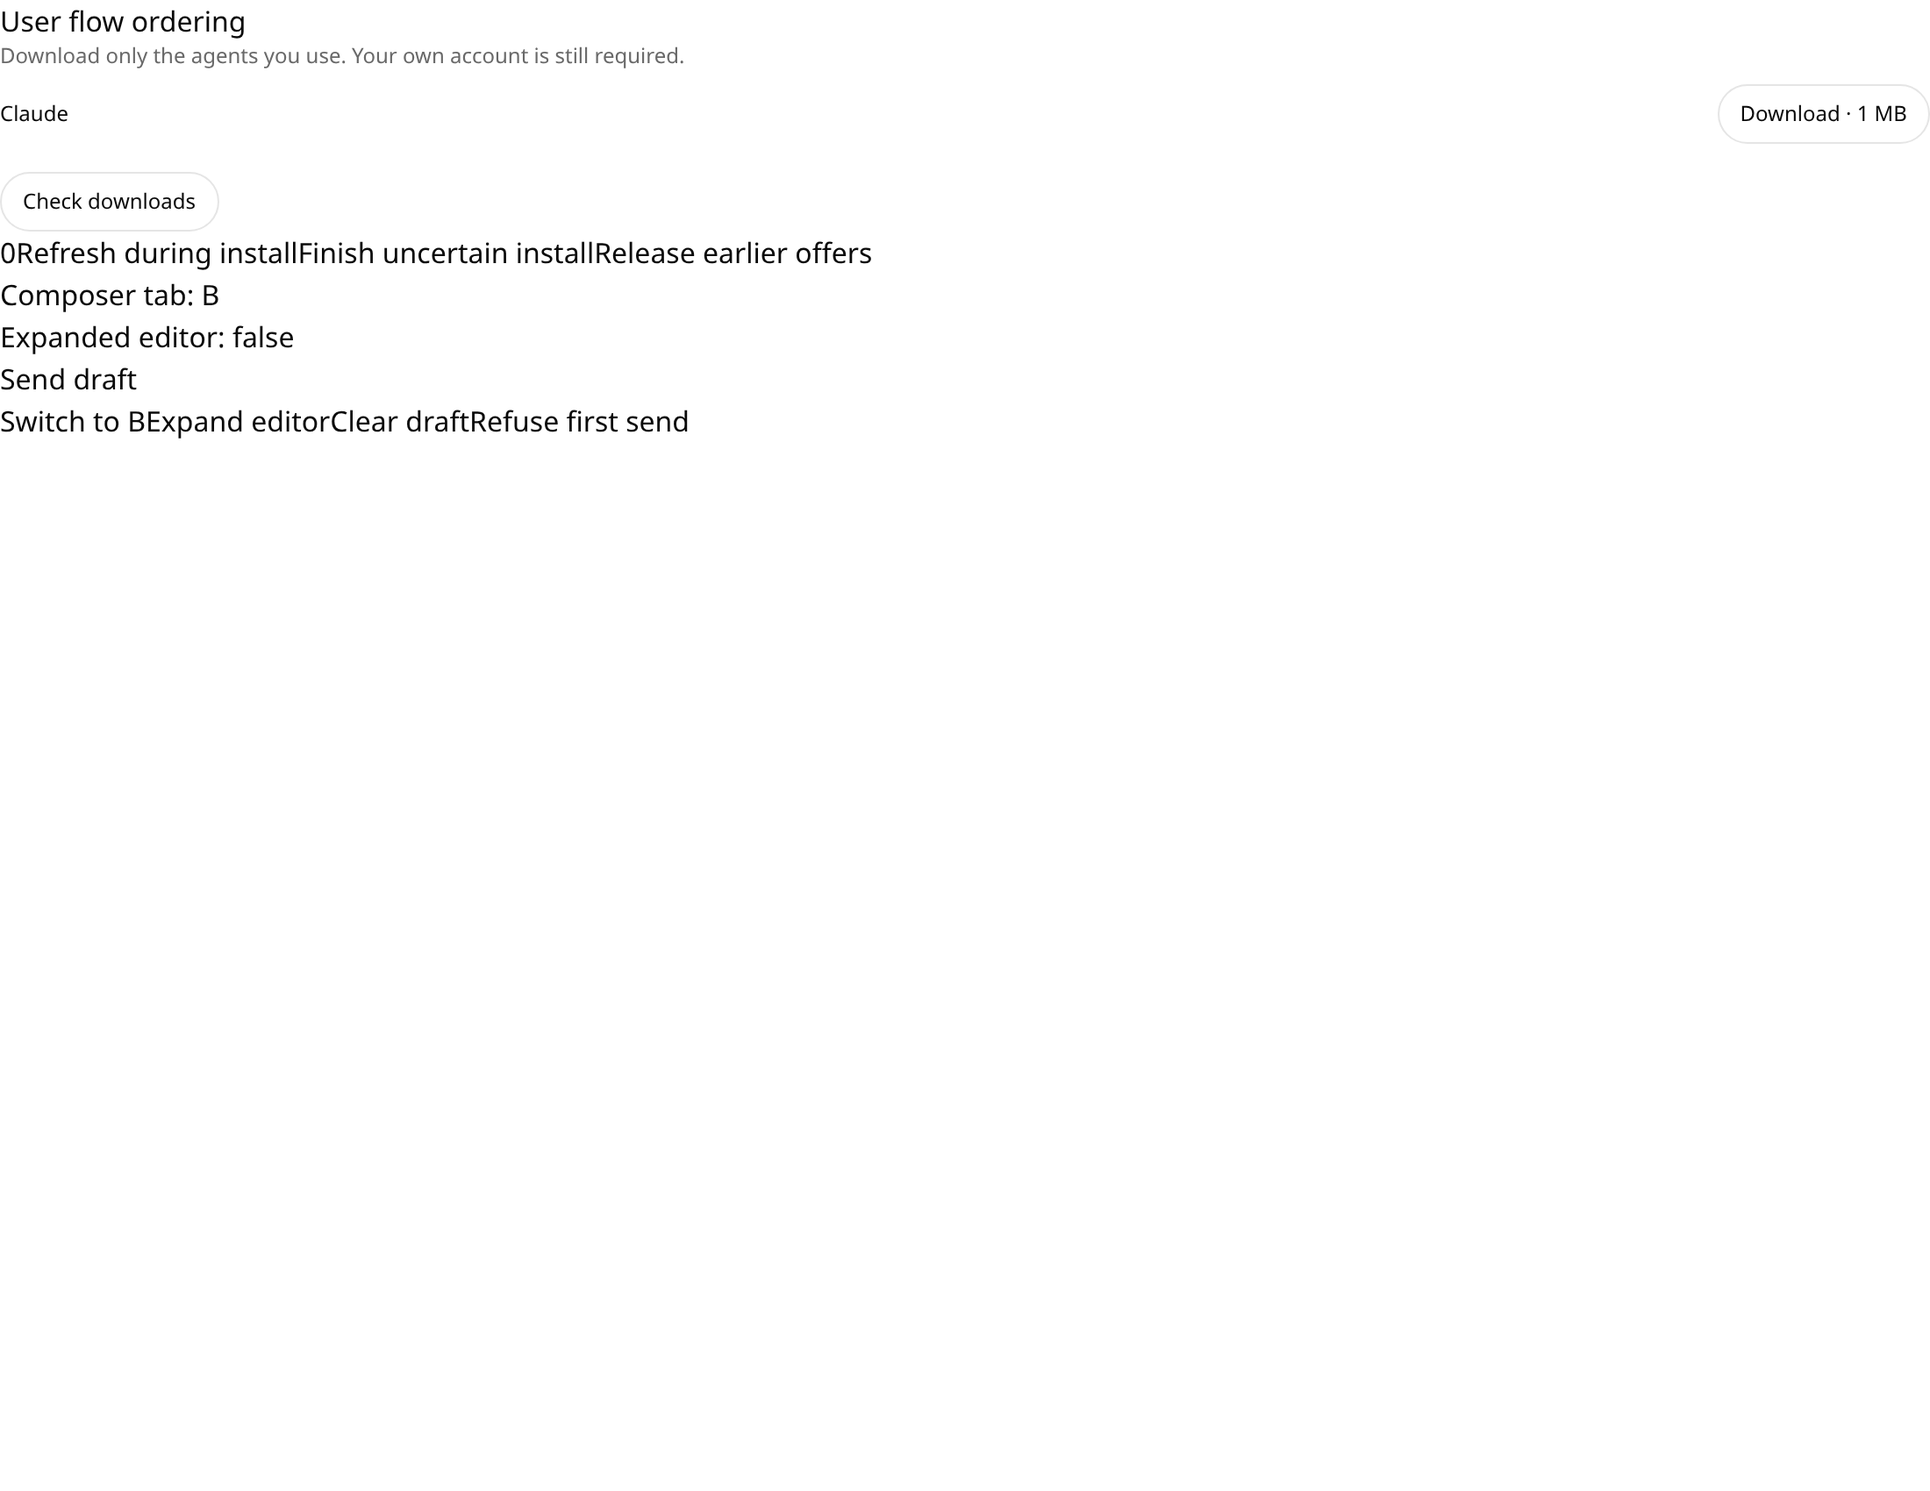
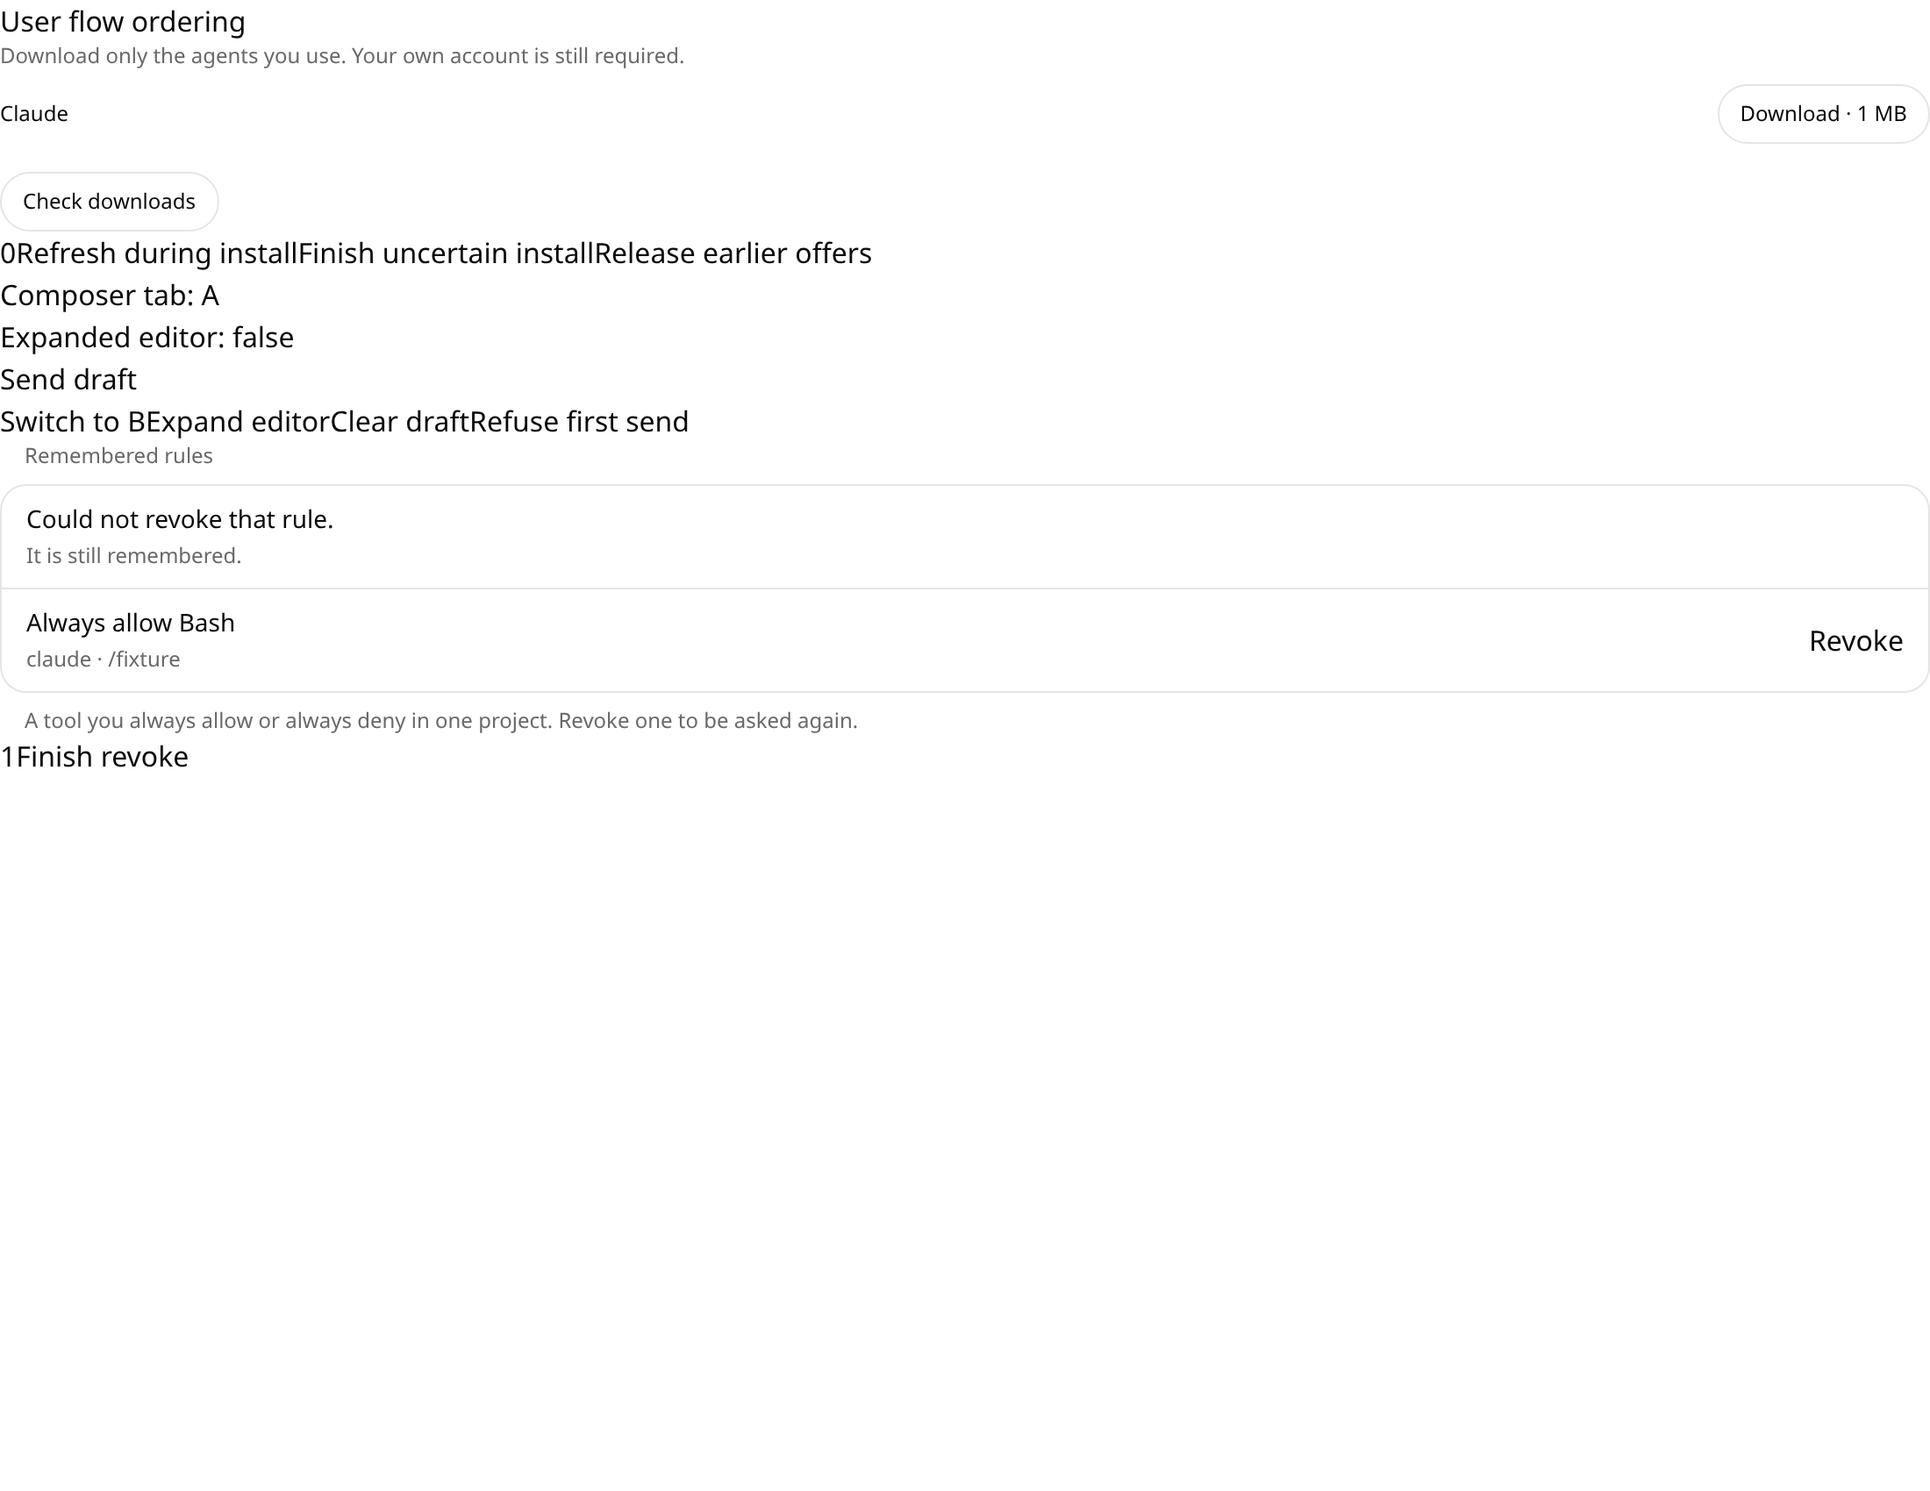
fix: retain permission-rule revoke ownership through refresh (#1087)

diff --git a/src/desktop/settings/ui/permission-rule-rows.test.tsx b/src/desktop/settings/ui/permission-rule-rows.test.tsx
@@ -5,7 +5,7 @@
  */
 import { act } from "react"
 import { createRoot, type Root } from "react-dom/client"
-import { afterEach, beforeEach, expect, it } from "vitest"
+import { afterEach, beforeEach, expect, it, vi } from "vitest"
 import type { PermissionRule } from "@nessa/client"
 import type { PermissionRulesGateway } from "../adapters/permission-rules-gateway"
 import { PermissionRuleRows, PermissionRulesProvider } from "./permission-rule-rows"
@@ -23,6 +23,7 @@ beforeEach(() => {
 afterEach(async () => {
   await act(async () => root.unmount())
   host.remove()
+  vi.restoreAllMocks()
 })
 
 const rule: PermissionRule = {
@@ -119,3 +120,128 @@ async function show(gateway: PermissionRulesGateway) {
     ),
   )
 }
+
+function deferred<T>() {
+  let resolve!: (value: T) => void
+  const promise = new Promise<T>((done) => {
+    resolve = done
+  })
+  return { promise, resolve }
+}
+function revokeButton() {
+  const button = host.querySelector<HTMLButtonElement>("button")
+  if (!button) throw new Error("Missing Revoke button")
+  return button
+}
+
+it.each(["focus", "visibilitychange"])(
+  "retains revoke ownership through a %s refresh",
+  async (event) => {
+    vi.spyOn(document, "visibilityState", "get").mockReturnValue("visible")
+    const pending = deferred<Awaited<ReturnType<PermissionRulesGateway["revoke"]>>>()
+    let calls = 0,
+      reads = 0
+    const gateway: PermissionRulesGateway = {
+      read: async () => {
+        reads++
+        return { ok: true, rules: [rule] }
+      },
+      revoke: () => {
+        calls++
+        return pending.promise
+      },
+    }
+    await show(gateway)
+    await act(async () => revokeButton().click())
+    expect(revokeButton().disabled).toBe(true)
+    await act(async () => {
+      if (event === "focus") window.dispatchEvent(new Event(event))
+      else document.dispatchEvent(new Event(event))
+    })
+    expect(revokeButton().disabled).toBe(true)
+    expect(reads).toBe(1)
+    expect(calls).toBe(1)
+    await act(async () => pending.resolve({ ok: false }))
+    expect(reads).toBe(2)
+    expect(host.textContent).toContain("Could not revoke that rule.")
+    expect(revokeButton().disabled).toBe(false)
+  },
+)
+
+it("retains revoke ownership until its post-command read finishes", async () => {
+  const pending = deferred<Awaited<ReturnType<PermissionRulesGateway["read"]>>>()
+  let reads = 0
+  const gateway: PermissionRulesGateway = {
+    read: async () => (++reads === 1 ? { ok: true, rules: [rule] } : pending.promise),
+    revoke: async () => ({ ok: true, applied: true }),
+  }
+  await show(gateway)
+  await act(async () => revokeButton().click())
+  await act(async () => window.dispatchEvent(new Event("focus")))
+  expect(reads).toBe(2)
+  expect(revokeButton().disabled).toBe(true)
+  await act(async () => pending.resolve({ ok: true, rules: [] }))
+  expect(host.textContent).toContain("Rules you save from a review appear here.")
+})
+
+it("ignores a background read begun before a revoke", async () => {
+  const oldRead = deferred<Awaited<ReturnType<PermissionRulesGateway["read"]>>>()
+  const pending = deferred<Awaited<ReturnType<PermissionRulesGateway["revoke"]>>>()
+  let reads = 0
+  const gateway: PermissionRulesGateway = {
+    read: async () => (++reads === 2 ? oldRead.promise : { ok: true, rules: [rule] }),
+    revoke: () => pending.promise,
+  }
+  await show(gateway)
+  await act(async () => window.dispatchEvent(new Event("focus")))
+  await act(async () => revokeButton().click())
+  await act(async () => oldRead.resolve({ ok: true, rules: [rule] }))
+  expect(revokeButton().disabled).toBe(true)
+  await act(async () => pending.resolve({ ok: false }))
+  expect(host.textContent).toContain("Could not revoke that rule.")
+})
+
+it.each(["replace", "unmount"])(
+  "retires a revoke before an obsolete follow-up read on %s",
+  async (retirement) => {
+    const pending = deferred<Awaited<ReturnType<PermissionRulesGateway["revoke"]>>>()
+    let reads = 0
+    const gateway: PermissionRulesGateway = {
+      read: async () => {
+        reads++
+        return { ok: true, rules: [rule] }
+      },
+      revoke: () => pending.promise,
+    }
+    await show(gateway)
+    await act(async () => revokeButton().click())
+    if (retirement === "replace")
+      await show({
+        read: async () => ({ ok: true, rules: [] }),
+        revoke: async () => ({ ok: true, applied: true }),
+      })
+    else await act(async () => root.render(null))
+    await act(async () => pending.resolve({ ok: true, applied: true }))
+    expect(reads).toBe(1)
+    expect(host.textContent).not.toContain("Always allow Bash")
+  },
+)
+
+it("admits one revoke when two clicks precede the disabled render", async () => {
+  const pending = deferred<Awaited<ReturnType<PermissionRulesGateway["revoke"]>>>()
+  let calls = 0
+  await show({
+    read: async () => ({ ok: true, rules: [rule] }),
+    revoke: () => {
+      calls++
+      return pending.promise
+    },
+  })
+  const button = revokeButton()
+  await act(async () => {
+    button.click()
+    button.click()
+  })
+  expect(calls).toBe(1)
+  await act(async () => pending.resolve({ ok: false }))
+})

diff --git a/src/desktop/settings/ui/permission-rule-rows.tsx b/src/desktop/settings/ui/permission-rule-rows.tsx
@@ -53,17 +53,23 @@ type Phase =
       readonly retained?: boolean
     }
 
+type Request = { readonly kind: "read" } | { readonly kind: "revoke" }
+
 export function PermissionRuleRows() {
   const gateway = useContext(PermissionRulesContext)
   const [phase, setPhase] = useState<Phase>({ kind: "absent" })
-  const latest = useRef(0)
+  const latest = useRef<Request>({ kind: "read" })
   useEffect(() => {
     if (!gateway) return
     let current = true
     const read = () => {
-      const generation = ++latest.current
+      // A revoke retains ownership through its own fresh read. Background
+      // refreshes defer to that read rather than replacing its pending state.
+      if (latest.current.kind === "revoke") return
+      const request: Request = { kind: "read" }
+      latest.current = request
       void gateway.read().then((outcome) => {
-        if (!current || generation !== latest.current) return
+        if (!current || request !== latest.current) return
         setPhase(
           outcome.ok ? { kind: "ready", rules: outcome.rules } : { kind: "unread" },
         )
@@ -79,17 +85,21 @@ export function PermissionRuleRows() {
     document.addEventListener("visibilitychange", onVisible)
     return () => {
       current = false
+      latest.current = { kind: "read" }
       window.removeEventListener("focus", onFocus)
       document.removeEventListener("visibilitychange", onVisible)
     }
   }, [gateway])
   const revoke = (ruleId: string) => {
-    if (!gateway || phase.kind !== "ready" || phase.revoking) return
-    const generation = ++latest.current
+    if (!gateway || phase.kind !== "ready" || latest.current.kind === "revoke") return
+    const request: Request = { kind: "revoke" }
+    latest.current = request
     setPhase({ kind: "ready", rules: phase.rules, revoking: ruleId })
     void gateway.revoke(ruleId, crypto.randomUUID()).then(async (outcome) => {
+      if (request !== latest.current) return
       const again = await gateway.read()
-      if (generation !== latest.current) return
+      if (request !== latest.current) return
+      latest.current = { kind: "read" }
       if (!outcome.ok) {
         const retained = again.ok
           ? again.rules.some((rule) => rule.id === ruleId)

diff --git a/src/panel/ui/use-composer.test.ts b/src/panel/ui/use-composer.test.ts
@@ -210,3 +210,49 @@ it("still reaches sendDraft, with the draft's own prose, when the editor is betw
     expect.objectContaining({ text: "typed before the remount" }),
   )
 })
+
+it("keeps B expanded after A submit and tab switch in the same task with the real store", async () => {
+  const { setDraft, setActive, openConversation } =
+    await import("../../conversation/testing")
+  const store = makeStore(
+    createDependencies({
+      conversation: { ...scenarioEffects("echo"), create: () => new Promise(() => {}) },
+    }),
+  )
+  store.dispatch(
+    sessionReady({ hello: {}, health: {} } as Parameters<typeof sessionReady>[0]),
+  )
+  store.dispatch(setDraft({ draft: [{ type: "text", text: "A" }] }))
+  const a = store.getState().conversation.activeId
+  store.dispatch(openConversation())
+  const b = store.getState().conversation.activeId
+  store.dispatch(setDraft({ draft: [{ type: "text", text: "B" }] }))
+  store.dispatch(setActive(a))
+  let hook!: ReturnType<typeof useComposer>
+  function PendingSurface() {
+    hook = useComposer(useConversation(), () => false, sent)
+    return null
+  }
+  await React.act(async () =>
+    root.render(
+      React.createElement(Provider, {
+        store,
+        children: React.createElement(PendingSurface),
+      }),
+    ),
+  )
+  // The qualified counterexample batches send and switch before the emptied
+  // A draft is observed. Separate human-click reachability is not established.
+  await React.act(async () => {
+    hook.submit({ preventDefault() {} } as React.FormEvent<HTMLFormElement>)
+    store.dispatch(setActive(b))
+  })
+  expect(
+    store
+      .getState()
+      .conversation.conversations.find((conversation) => conversation.id === a)?.draft,
+  ).toEqual([])
+  await React.act(async () => hook.changeExpanded(true, "control"))
+  await React.act(async () => hook.changeContent({ text: "", parts: [] }))
+  expect(hook.expanded).toBe(true)
+})

diff --git a/verification/conversation/user-flow-ordering.tsx b/verification/conversation/user-flow-ordering.tsx
@@ -7,6 +7,14 @@ import type {
   InstallationOffer,
   InstallationOutcome,
 } from "../../src/onboarding/application/agent-installations"
+import {
+  PermissionRulesProvider,
+  PermissionRuleRows,
+} from "../../src/desktop/settings/ui/permission-rule-rows"
+import type {
+  PermissionRulesGateway,
+  PermissionRulesRevoke,
+} from "../../src/desktop/settings/adapters/permission-rules-gateway"
 import { useComposer } from "../../src/panel/ui/use-composer"
 import type { useConversation } from "../../src/conversation"
 import "../../src/styles.css"
@@ -101,10 +109,46 @@ function Composer() {
     </section>
   )
 }
+const revoked = deferred<PermissionRulesRevoke>()
+function Permissions() {
+  const [requests, setRequests] = React.useState(0)
+  const gateway = React.useMemo<PermissionRulesGateway>(
+    () => ({
+      read: async () => ({
+        ok: true,
+        rules: [
+          {
+            id: "pr_fixture",
+            revision: "1",
+            workspace: "/fixture",
+            source: "claude",
+            tool: "Bash",
+            effect: "allow",
+          },
+        ],
+      }),
+      revoke: async () => {
+        setRequests((count) => count + 1)
+        return revoked.promise
+      },
+    }),
+    [],
+  )
+  return (
+    <section aria-label="Permission revoke ordering fixture">
+      <PermissionRulesProvider gateway={gateway}>
+        <PermissionRuleRows />
+      </PermissionRulesProvider>
+      <output aria-label="Revoke requests">{requests}</output>
+      <button onClick={() => revoked.resolve({ ok: false })}>Finish revoke</button>
+    </section>
+  )
+}
 createRoot(document.getElementById("root")!).render(
   <main data-user-flow-ordering>
     <h1>User flow ordering</h1>
     <Downloads />
     <Composer />
+    <Permissions />
   </main>,
 )

diff --git a/docs/design/user-flow-ordering.md b/docs/design/user-flow-ordering.md
@@ -69,3 +69,31 @@ conversation admission path; the new ordering fixture covers these frontend
 interleavings directly. Defaults and raised-count stress were not run here.
 See [evidence](../../verification/desktop/evidence/user-flow-ordering/README.md)
 for environment limits and reproducible commands.
+
+## Permission-rule revoke versus background reads
+
+The audit independently reproduced a focus read replacing a pending revoke's
+presentation and its generation. Revoke became enabled and another click
+issued a second request with a different request ID. Physical duplicate effects
+were not established.
+
+The row component's existing request owner must distinguish a read from a
+revoke, retaining identity through the revoke and its mandatory reread. Focus
+and visibility refreshes defer while that owner is a revoke; completion already
+performs the fresh read. The UI's disabled state is a projection of that owner,
+not the authority for rejecting repeated callbacks. Source retirement invalidates
+the owner before an obsolete result can schedule a follow-up read.
+
+| Row | Ordering | Required result and regression |
+| --- | --- | --- |
+| PR1 | Revoke pending; focus or visibility refresh arrives | Keep controls disabled and one mutation request; two event cases. |
+| PR2 | Revoke answered; its reread pending; focus arrives | Retain owner through reread; no competing read can replace it. |
+| PR3 | Background read began first; revoke begins; old read answers | Old read cannot clear revoke ownership. |
+| PR4 | Source replaced or view unmounted; revoke answers later | No obsolete follow-up read or publication into replacement. |
+| PR5 | Two clicks in one task before DOM disable commits | One revoke dispatch, with synchronous admission by the request owner. |
+
+The composer counterexample CO1 has an application reachability qualification:
+the independent real-store reproduction submits A and switches to B in the
+**same task**, before A's emptied draft is observed by the hook. Ordinary,
+separately delivered human-click reachability remains unverified. Controlled
+ports establish hook ordering only. Keep that distinction in state pages and PRs.

diff --git a/verification/desktop/evidence/user-flow-ordering/README.md b/verification/desktop/evidence/user-flow-ordering/README.md
@@ -58,3 +58,32 @@ existing large-chunk warning. Full frontend: **5130 passed, 2 failed in 390
 files** (the same two unchanged private-file acceptance fixtures). Architecture:
 **107 passed, 1 could not execute Cargo metadata**, reported by that test runner
 as a failure. Required exact-head CI remains pending on GitHub.
+
+## Revoke-focus follow-up and composer qualification
+
+A separate focused commit after `11e2746f7df088a1bd5ee3b2e579ad8a40b5cbd1`
+fixes the third independent finding. Permission-rule revoke now retains one
+identified owner through command acknowledgement and its fresh read. Background
+focus/visibility checks cannot replace it. Repeated callbacks are refused by
+that synchronous owner; source/view retirement invalidates late continuations.
+No server authorization rule changed.
+
+Seven permission cases plus one actual Redux-store composer case bring this
+work to **41 added tests**. The actual-store counterexample sends A and switches
+to B in the **same task**; separate, ordinary human-click reachability remains
+unverified. Controlled hook fixtures are not proof of that reachability.
+
+Reverting only the permission component gives **6 failed / 6 passed**; reverting
+the composer hook and running the actual-store file gives **1 failed / 7
+passed**. The original permission component in Chromium permits a second
+frontend revoke dispatch after focus and gives **6/7 held**. Fixed source
+restored: **7/7 Chromium checks held**, including **one pending revoke dispatch**,
+controls disabled through ownership, and recovery enabled after settlement.
+The evidence makes no duplicate-physical-effect claim.
+
+Updated source checks: **142/142 targeted tests in 20 files**, TypeScript,
+changed-file ESLint, formatting and production build passed. Full frontend:
+**5138 passed / 2 failed in 390 files**, retaining the same unchanged private-file
+fixture failures. The initial source commit's evidence above remains historical.
+System-Chromium overview/focus findings are being triaged separately and are
+not attributed to these changes.

diff --git a/verification/desktop/CHECKLIST.md b/verification/desktop/CHECKLIST.md
@@ -2144,3 +2144,9 @@ with a typed failure.
 ### Pending action ownership (#1087)
 
 `user-flow-ordering.mjs` drives production AgentDownloads and useComposer against controlled ports in Chromium and WebKit: Busy and Not confirmed both keep Download absent after an older offers response (0 stale buttons, 1 dispatch), while a newer check restores it (1 button). Sending in A and clearing B leaves B expanded; refusing A while B sends cannot suppress B's own collapse. This is frontend dispatch/presentation evidence, not a claim about physical backend installation. The fixture needs dev mode and no gateway credentials.
+
+The same `user-flow-ordering.mjs` fixture also checks a real permission-rule
+Revoke during a focus refresh: 1 pending revoke dispatch, disabled controls
+through its post-command reread, then enabled recovery. It does not prove
+physical server mutation or ordinary separate-click reachability of the
+qualified same-task composer counterexample.
